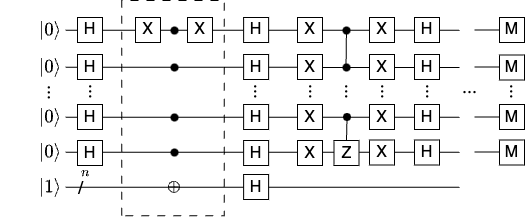
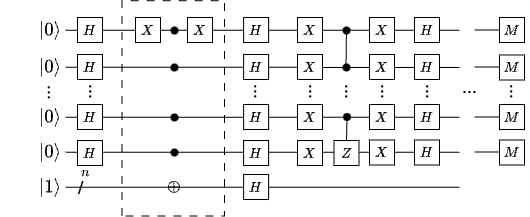
refactored styles of gates and started quantum phase estimation

diff --git a/src/pages/algorithms/btoracle.html b/src/pages/algorithms/btoracle.html
@@ -216,6 +216,75 @@
         And that comes from our swap gates at the end, in this case, they're used to reverse our final output, leaving us with the desired output state.
         <p>This is our quantum fourier transform. This will be used in our next helper algorithm, quantum phase estimation.</p>
         <h3>Quantum Phase Estimation</h3>
+        <p>This algorithm finds the eigenvalue of a unitary operator. What does that mean? <br><br>
+        A unitary operator is a matrix that, multiplied by inverse, is the Identity \( I \) matrix<br><br>
+        The eigenvalue is the multiplying factor of a linear transformation. What does that mean? <br><br>
+        In all honesty, it's not of much importance to understand what an eigenvalue is to understand the equation. However, 3Blue1Brown has a great <a href="https://www.youtube.com/watch?v=PFDu9oVAE-g&t=795s">video</a> on the topic. <br><br>
+        For this algorithm, just think of us looking for \( \theta \)
+        </p>
+        <p>
+        Consider our unitary matrix \( U \) has an eigenvalue \( e^{2 \pi i \theta} \)
+        <br><br> This algorithm tells us how to approximate \( \theta \) with high probability of success.
+        </p>
+        <p>
+        Let's look at the circuit diagram <br>
+        <img src="../../../assets/quantum-phase-estimation-diagram.png"> <br>
+        Notice the \( QFT^{-1}_{2^n}\), is our inverse quantum fourier transform, which runs on \( 2^n \) states since each qubit can have n states of 0 or 1.<br><br>
+        Likewise, notice \( U^n \) where n is referring to the amount of times that \( U \) is applied to a qubit<br><br>
+        Here we can see that we start with the stream of qubits \(\ket{0^{\otimes n}} \ket{\theta}\), the top \( \ket{0} \) qubits are put into superposition state
+        \[
+        \ket{0^{\otimes n}} \ket{\theta}
+        \longrightarrow
+        \]
+        \[
+        \bigg(\frac{1}{\sqrt{2}} \bigg(\ket{0} + \ket{1} \bigg) 
+        \otimes \frac{1}{\sqrt{2}} \bigg(\ket{0} + \ket{1} \bigg)
+        \otimes ... \otimes 
+        \frac{1}{\sqrt{2}} \bigg(\ket{0} + \ket{1} \bigg)
+        \bigg)\ket{\theta}
+        \]
+        Now you'll see similarly to how \( R_n \) works, our \( U \) yields a similar output, let's represent our superposition state of \( \ket{0} \)'s as \( j \) 
+        \[
+        U^j\ket{j} \ket{\theta} \longrightarrow \ket{j} U^J \ket{\theta}
+        \]
+        Notice that this is now in phase kickback, so 
+        \[
+        \ket{j} U^J \ket{\theta} \longrightarrow e^{2 \pi i \theta j}
+        \]
+        Notice us again representing this using euler's formula.
+        </p>
+        Let's see how this looks in our example, since \(2^0 = 1\), and \(U^1=U\), \(U\) is only applied once
+        \[
+        U\bigg(\frac{1}{\sqrt{2}} \bigg(\ket{0} + \ket{1} \bigg) 
+        \otimes \frac{1}{\sqrt{2}} \bigg(\ket{0} + \ket{1} \bigg)
+        \frac{1}{\sqrt{2}} \bigg(\ket{0} + \ket{1} \bigg)
+        \otimes ...
+        \bigg)\ket{\theta}
+        \]
+        This causes phase kickback, and the output in this case is \( e^\theta \), we'll also forget the first string of superposition states for now
+        \[
+        \longrightarrow 
+         ...\otimes
+        \frac{1}{\sqrt{2}} \bigg(\ket{0} + e^\theta\ket{1} \bigg)
+        \ket{\theta}
+        \]
+        Next, we see that \( U \) is applied twice, this goes how you think it would
+        \[
+        U^2 ...\otimes
+       \frac{1}{\sqrt{2}} \bigg(\ket{0} + e^\theta\ket{1} \bigg)
+       \ket{\theta}
+       \longrightarrow
+       \frac{1}{\sqrt{2}} \bigg(\ket{0} + e^i\theta\ket{1} \bigg)
+       \frac{1}{\sqrt{2}} \bigg(\ket{0} + e^{2i\theta}\ket{1} \bigg)
+       \ket{\theta}
+        \]
+        and this pattern continues on, we can represent this as
+        \[
+        
+        \]
+        <p>
+        
+        </p>
         <br><br><br><br>
         [<a href="../index.html">\( \leftarrow \) back to home</a>]
         <br><br><br><br>

diff --git a/assets/ygate.html b/assets/ygate.html
@@ -1,0 +1,12 @@
+<!--[if IE]><meta http-equiv="X-UA-Compatible" content="IE=5,IE=9" ><![endif]-->
+<!DOCTYPE html>
+<html>
+<head>
+<title>ygate.html</title>
+<meta charset="utf-8"/>
+</head>
+<body>
+<div class="mxgraph" style="max-width:100%;border:1px solid transparent;" data-mxgraph="{&quot;highlight&quot;:&quot;#0000ff&quot;,&quot;nav&quot;:true,&quot;resize&quot;:true,&quot;xml&quot;:&quot;&lt;mxfile host=\&quot;app.diagrams.net\&quot; agent=\&quot;Mozilla/5.0 (Macintosh; Intel Mac OS X 10_15_7) AppleWebKit/537.36 (KHTML, like Gecko) Chrome/127.0.0.0 Safari/537.36\&quot; version=\&quot;24.7.7\&quot;&gt;&lt;diagram name=\&quot;Page-1\&quot; id=\&quot;HZZxTzwSVVLsecI9VoOU\&quot;&gt;&lt;mxGraphModel dx=\&quot;396\&quot; dy=\&quot;581\&quot; grid=\&quot;1\&quot; gridSize=\&quot;10\&quot; guides=\&quot;1\&quot; tooltips=\&quot;1\&quot; connect=\&quot;1\&quot; arrows=\&quot;1\&quot; fold=\&quot;1\&quot; page=\&quot;1\&quot; pageScale=\&quot;1\&quot; pageWidth=\&quot;850\&quot; pageHeight=\&quot;1100\&quot; math=\&quot;1\&quot; shadow=\&quot;0\&quot;&gt;&lt;root&gt;&lt;mxCell id=\&quot;0\&quot;/&gt;&lt;mxCell id=\&quot;1\&quot; parent=\&quot;0\&quot;/&gt;&lt;mxCell id=\&quot;CfQwiTEaF2QUC_yA8hdn-1\&quot; value=\&quot;&amp;lt;svg style=&amp;quot;vertical-align: 0px;&amp;quot; xmlns:xlink=&amp;quot;http://www.w3.org/1999/xlink&amp;quot; viewBox=&amp;quot;0 -683 763 683&amp;quot; role=&amp;quot;img&amp;quot; height=&amp;quot;1.545ex&amp;quot; width=&amp;quot;1.726ex&amp;quot; xmlns=&amp;quot;http://www.w3.org/2000/svg&amp;quot;&amp;gt;&amp;lt;defs&amp;gt;&amp;lt;path d=&amp;quot;M66 637Q54 637 49 637T39 638T32 641T30 647T33 664T42 682Q44 683 56 683Q104 680 165 680Q288 680 306 683H316Q322 677 322 674T320 656Q316 643 310 637H298Q242 637 242 624Q242 619 292 477T343 333L346 336Q350 340 358 349T379 373T411 410T454 461Q546 568 561 587T577 618Q577 634 545 637Q528 637 528 647Q528 649 530 661Q533 676 535 679T549 683Q551 683 578 682T657 680Q684 680 713 681T746 682Q763 682 763 673Q763 669 760 657T755 643Q753 637 734 637Q662 632 617 587Q608 578 477 424L348 273L322 169Q295 62 295 57Q295 46 363 46Q379 46 384 45T390 35Q390 33 388 23Q384 6 382 4T366 1Q361 1 324 1T232 2Q170 2 138 2T102 1Q84 1 84 9Q84 14 87 24Q88 27 89 30T90 35T91 39T93 42T96 44T101 45T107 45T116 46T129 46Q168 47 180 50T198 63Q201 68 227 171L252 274L129 623Q128 624 127 625T125 627T122 629T118 631T113 633T105 634T96 635T83 636T66 637Z&amp;quot; id=&amp;quot;MJX-2110-TEX-I-1D44C&amp;quot;&amp;gt;&amp;lt;/path&amp;gt;&amp;lt;/defs&amp;gt;&amp;lt;g transform=&amp;quot;scale(1,-1)&amp;quot; stroke-width=&amp;quot;0&amp;quot; fill=&amp;quot;currentColor&amp;quot; stroke=&amp;quot;currentColor&amp;quot;&amp;gt;&amp;lt;g data-mml-node=&amp;quot;math&amp;quot;&amp;gt;&amp;lt;g data-mml-node=&amp;quot;mi&amp;quot;&amp;gt;&amp;lt;use xlink:href=&amp;quot;#MJX-2110-TEX-I-1D44C&amp;quot; data-c=&amp;quot;1D44C&amp;quot;&amp;gt;&amp;lt;/use&amp;gt;&amp;lt;/g&amp;gt;&amp;lt;/g&amp;gt;&amp;lt;/g&amp;gt;&amp;lt;/svg&amp;gt;\&quot; style=\&quot;whiteSpace=wrap;html=1;aspect=fixed;\&quot; parent=\&quot;1\&quot; vertex=\&quot;1\&quot;&gt;&lt;mxGeometry x=\&quot;97.5\&quot; y=\&quot;360\&quot; width=\&quot;25\&quot; height=\&quot;25\&quot; as=\&quot;geometry\&quot;/&gt;&lt;/mxCell&gt;&lt;/root&gt;&lt;/mxGraphModel&gt;&lt;/diagram&gt;&lt;/mxfile&gt;&quot;,&quot;toolbar&quot;:&quot;pages zoom layers lightbox&quot;,&quot;page&quot;:0}"></div>
+<script type="text/javascript" src="https://app.diagrams.net/js/viewer-static.min.js"></script>
+</body>
+</html>

diff --git a/src/pages/index.html b/src/pages/index.html
@@ -38,7 +38,7 @@
         </div>
         <div class="grid-item">
             <a href="./algorithms/btoracle.html">Beyond the oracle</a>
-            <a href="./algorithms/btoracle.html"><img src="../../assets/btoracle.png" alt="btoracle"></a>
+            <a href="./algorithms/btoracle.html"><img src="../../assets/btoracle-diagram.png" alt="btoracle"></a>
         </div>
         <div class="grid-item">
             <a href="./algorithms/shors.html">Shor's algorithm</a>
